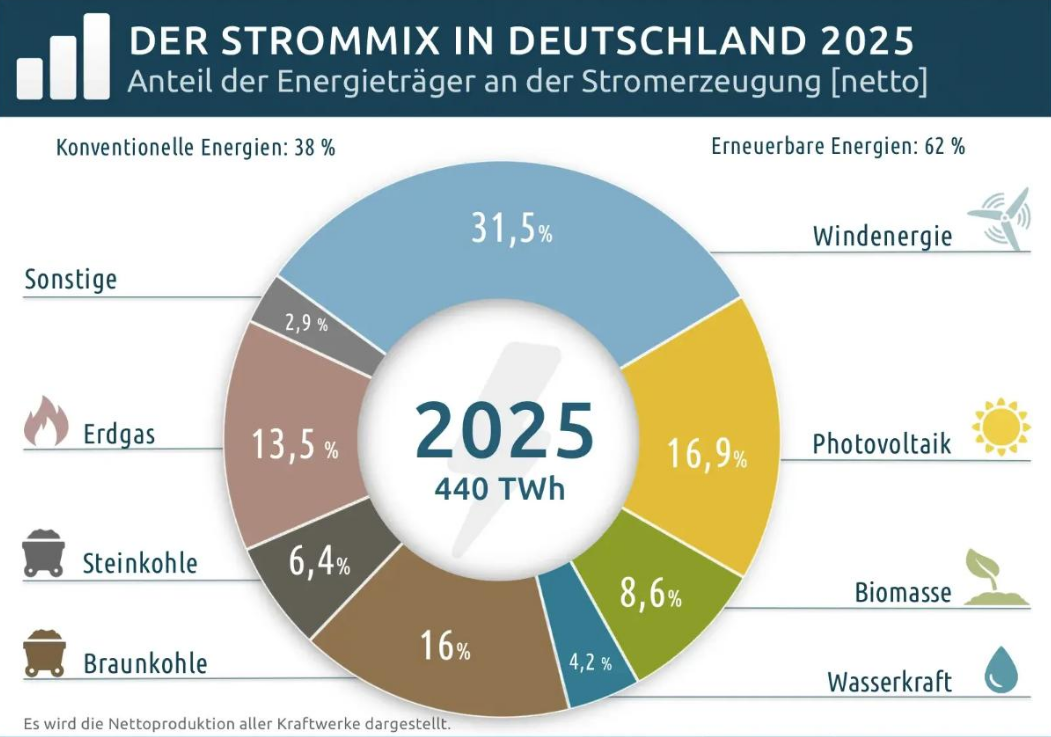
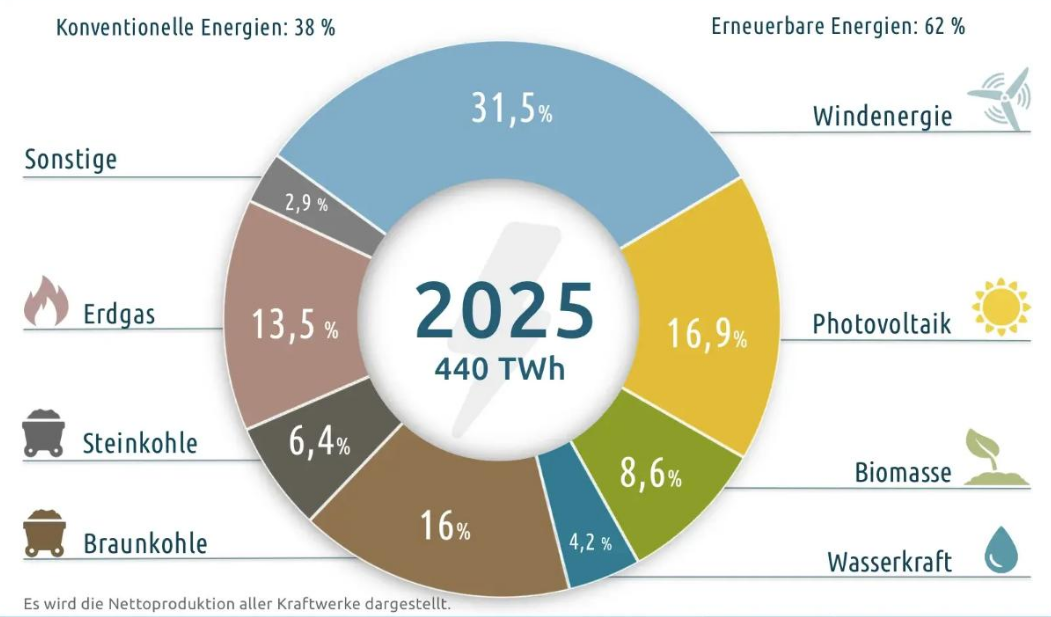
reworked formatting for previous chapters

diff --git a/sections/energieverteilungsnetze.tex b/sections/energieverteilungsnetze.tex
@@ -36,7 +36,7 @@
 \subsubsection{Einphasiges ESB (symmetrisch)}
     \begin{figure}[H]
         \centering
-        \includegraphics[width=0.95\columnwidth]{./Bilder/Energieverteilungsnetze/einphasiges_ESB.png}
+        \includegraphics[width=0.7\columnwidth]{./Bilder/Energieverteilungsnetze/einphasiges_ESB.png}
     \end{figure}
     Im einphasigen ESB ist aufgrund der symmetrischen Belastung (\(I_N = 0\)) der Neutralleiter nicht notwendig.
 
@@ -132,58 +132,3 @@
     \item \textbf{Ringnetz: } einseitig gespeiste Ringleitung
     \item \textbf{geschlossenes Netz: } Maschennetz
 \end{itemize}
-
-
-% \subsection{Energiebedarf, Deckung}
-% \begin{enumerate}
-%     \item{\textbf{Tagesbelastungskurve}}
-% \begin{flalign*}
-%     W &= \int_{0}^{T_{n}} P(t)  \,dt \\
-%       &= P_{n} \cdot T_{a} = P_{max} \cdot T_{m} =
-%     P_{mittel} \cdot T_{n}
-% \end{flalign*}
-
-% \begin{tabular}[h]{l|l}
-%     \hline
-%     $P_{n}$         & Nennleistung \\
-%     $T_{a}$         & Ausnutzungsdauer \\
-%     \hline
-%     $P_{max}$       & Höchstlast \\
-%     $T_{m}$         & Benutzungsdauer \\
-%     \hline
-%     $P_{mittel}$    & mittlere Leistung \\
-%     $T_{n}$         & Nennbetriebsdauer (meist. 24h) \\
-% \end{tabular}\\
-% \\
-% \item{\textbf{Frequenz-Wirkleistungs-Regelung}}
-%     		\item[a)]{\underline{stationärer Zustand (Gleichgewicht)}}
-% 		\begin{align*}
-% 			 W_{rot} = \frac{1}{2} \cdot J \cdot \omega_{mech} ^{2} &\qquad
-% 			 \omega_{el} = p  \cdot \omega_{mech} \\
-% 			%  \vspace{1pt}\\
-% 			 W_{mech-zu} = W_{el-ab} &\qquad
-% 			 P_{mech-zu} = P_{el-ab}
-% 		\end{align*}
-
-% 		$p$: Polpaarzahl \quad
-% 		$J$: Massenträgheitsmoment\\
-
-% 		\item[b)]{\underline{Störung}}
-% 		% Sprunghafte Zunahme um $ \Delta P \Rightarrow$
-% 		% Abbremsen der Rotoren $\Rightarrow$ Sinken der Drehzahl aller Generatoren
-% 		% $\Rightarrow$ fehlende Energie wird aus gesp. Rotationsenergie aller elek.
-% 		% Maschinen übernommen $\Delta W_{rot}$
-% 		\begin{align*}
-% 			W_{m-zu} \neq W_{el-ab} &\qquad
-% 			P_{m-zu} \neq P_{el-ab} \\
-% 			\Delta W_{rot} = \frac{1}{2} \cdot & J \cdot (\omega_{stat} - \omega_{akt})\\
-% 		\end{align*}
-
-% \end{enumerate}
-
-% % \begin{gather*}
-% %     [R'] = [X'] = \frac{\Omega}{km} = \frac{m\Omega}{m} \\
-% %     [G'] = \frac{nS}{km} = \frac{pS}{m} \\
-% %     [B'] = \frac{\mu S}{km} = \frac{nS}{m}\\
-% %     B_{b}' = \omega C_{b}'
-% % \end{gather*}